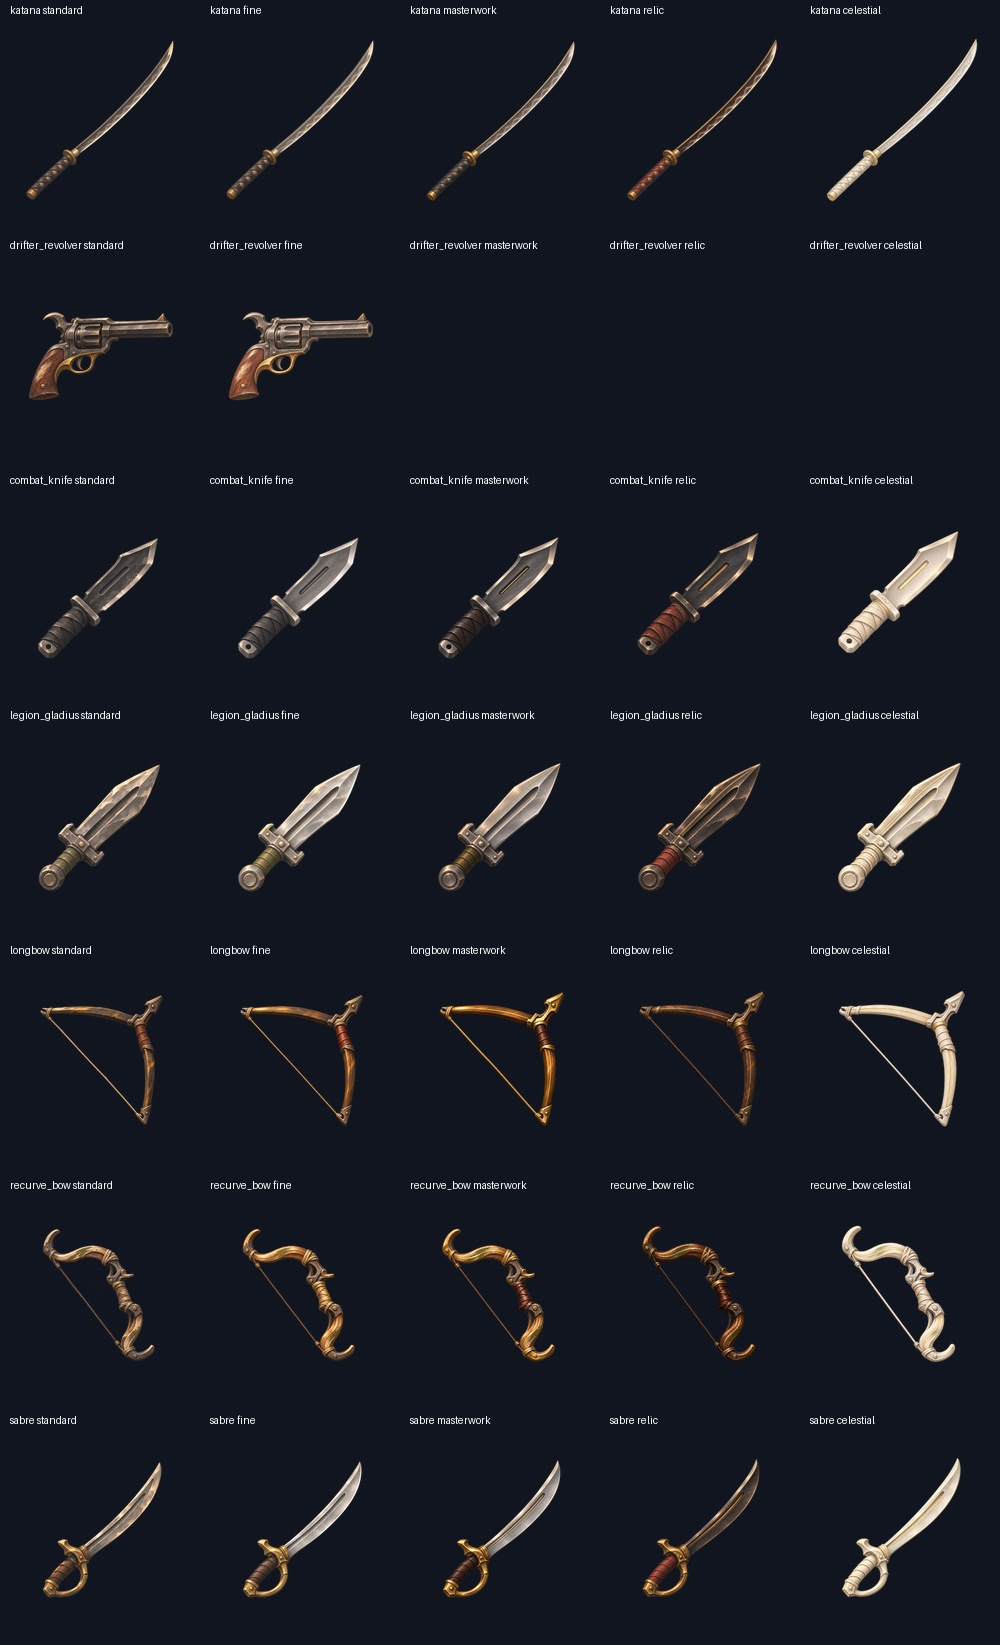
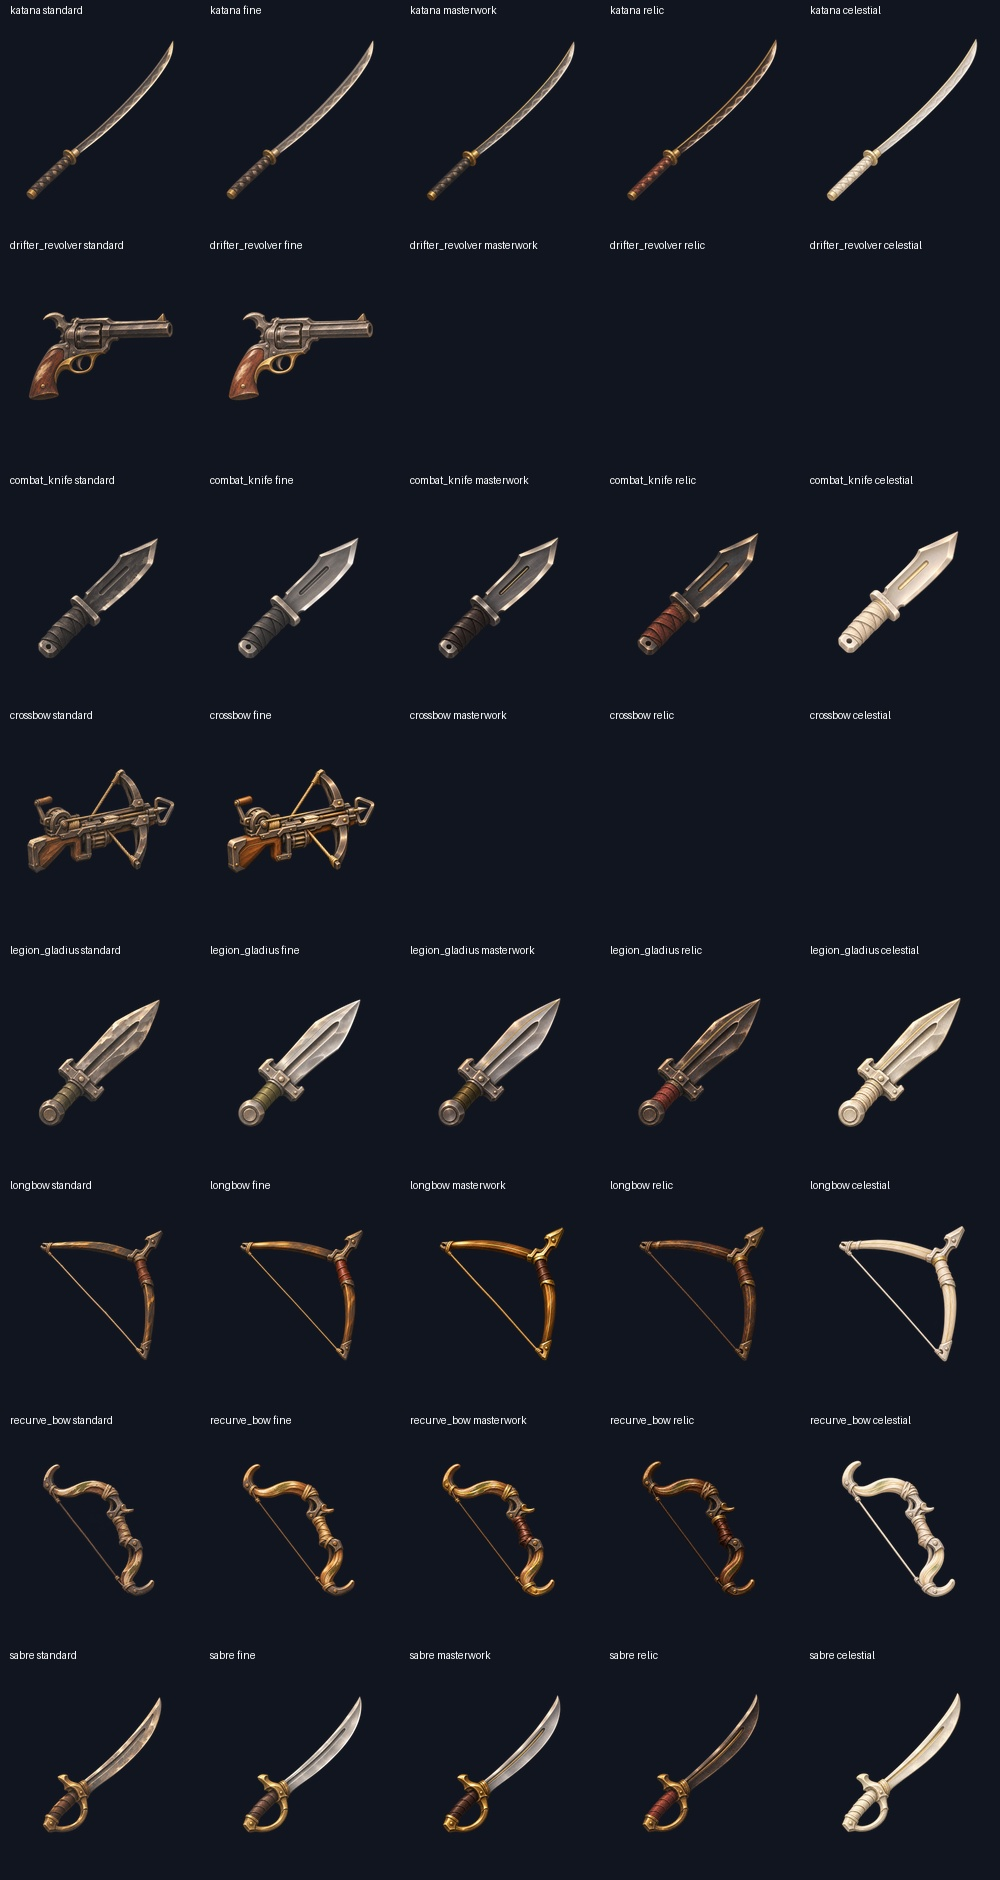
Archive crossbow fine grade proof

diff --git a/art/_archive/prompt-pack/2026-11-19-file-08/PROGRESS.md b/art/_archive/prompt-pack/2026-11-19-file-08/PROGRESS.md
@@ -1,5 +1,5 @@
 # Grade proof progress
 
-27 archived PNG attempts, including earlier Fine trials. The composite shows the current candidate for each finish.
+28 archived PNG attempts, including earlier Fine trials. The composite shows the current candidate for each finish.
 
 [Proof progress](review/complete-proof-progress.jpg)
